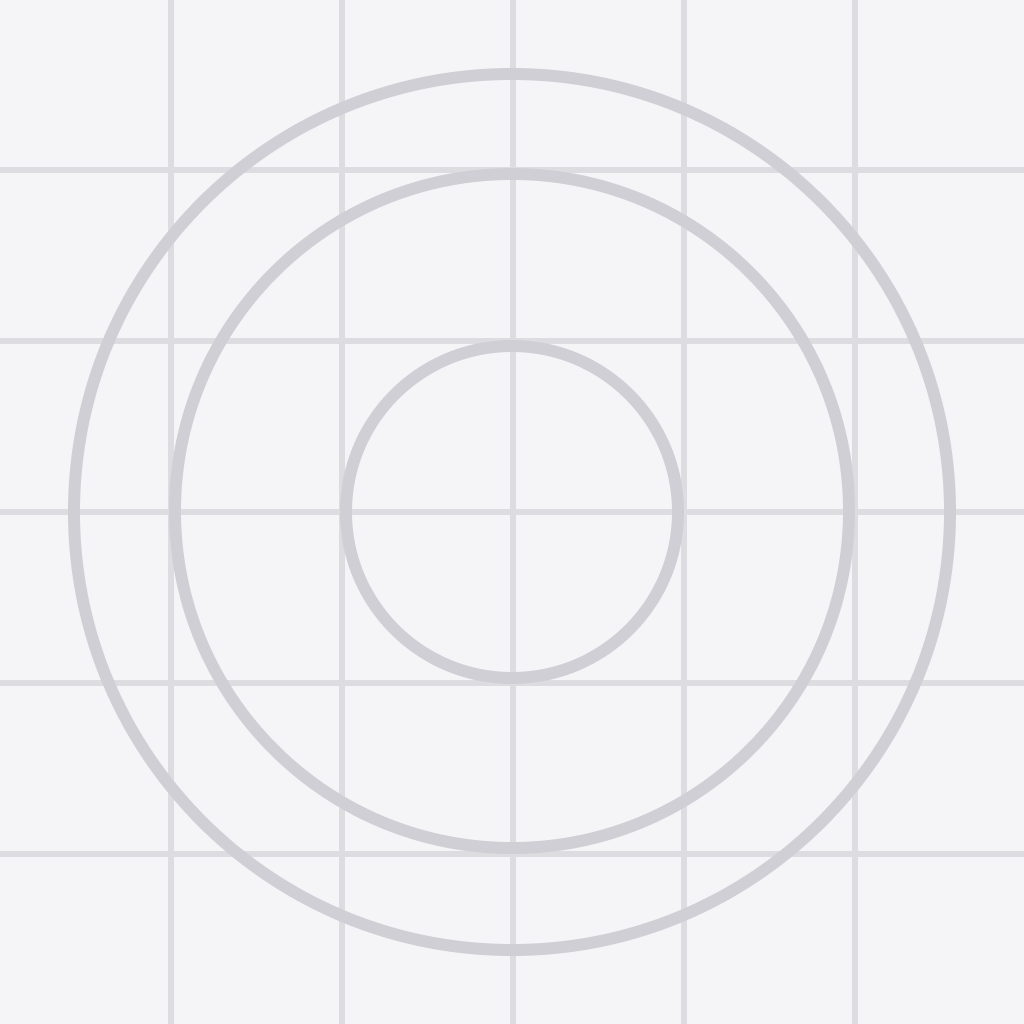
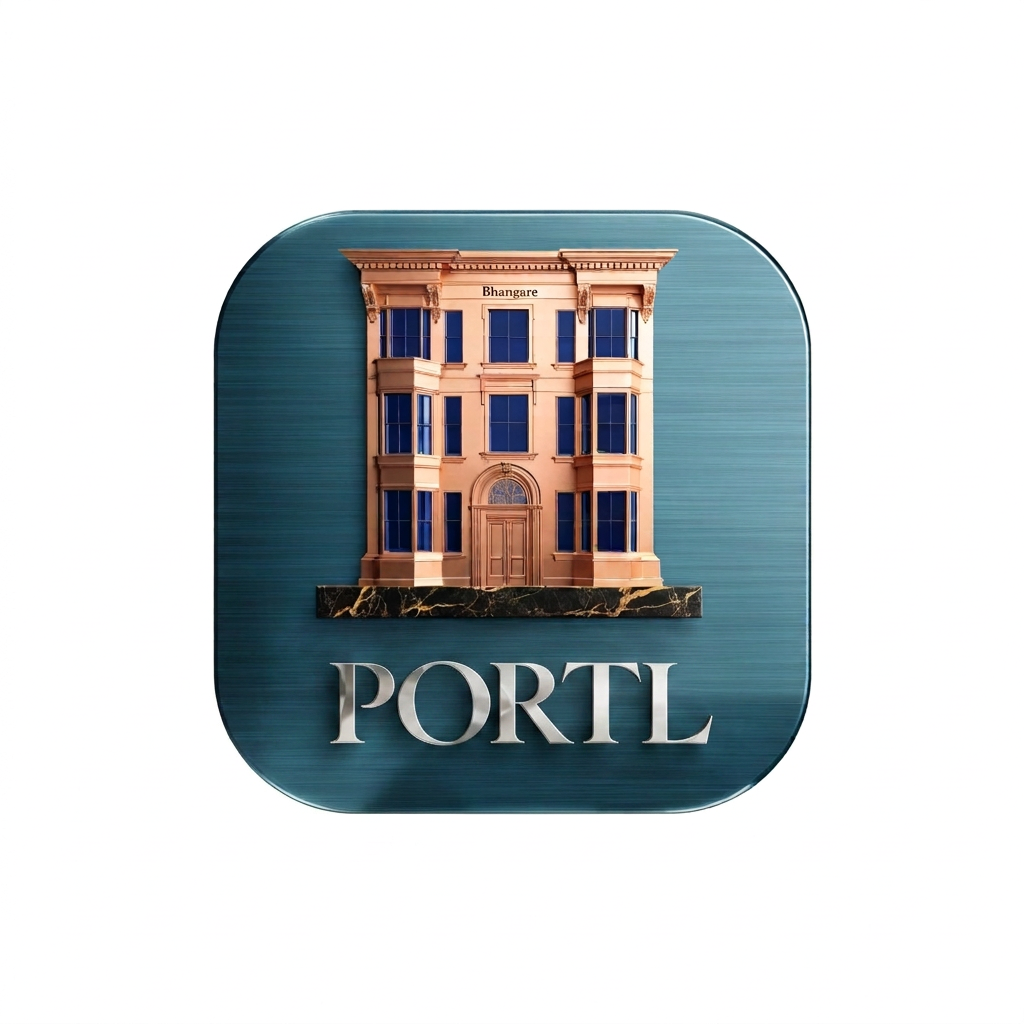
Improve card visual depth globally, add numeric nav badges

diff --git a/app/(admin)/index.tsx b/app/(admin)/index.tsx
@@ -16,7 +16,7 @@ const INK_FAINT = '#A6A3B3';
 const ACCENT = '#4F3FE0';
 const ACCENT_SOFT = '#EFECFD';
 const GOLD = '#C9922B';
-const PAGE_BG = '#FAFAFC';
+const PAGE_BG = '#EFEEF5';
 const CARD_BG = '#FFFFFF';
 const BORDER = '#ECEAF2';
 const INPUT_BG = '#F5F4F9';
@@ -1035,7 +1035,9 @@ const deleteDue = async (id: string) => {
         <Pressable style={styles.navItem} onPress={() => setTab('visitors')} hitSlop={8}>
           <View style={[styles.navIconWrap, tab === 'visitors' && styles.navIconWrapActive]}>
             <IconButton icon="account-group-outline" size={22} iconColor={tab === 'visitors' ? ACCENT : INK_FAINT} style={{ margin: 0 }} />
-            {pendingCount > 0 && tab !== 'visitors' && <View style={styles.navDot} />}
+            {pendingCount > 0 && tab !== 'visitors' && (
+  <View style={styles.navBadge}><Text style={styles.navBadgeText}>{pendingCount > 9 ? '9+' : pendingCount}</Text></View>
+)}
           </View>
           <Text style={[styles.navLabel, tab === 'visitors' && styles.navLabelActive]}>Visitors</Text>
         </Pressable>
@@ -1043,7 +1045,9 @@ const deleteDue = async (id: string) => {
         <Pressable style={styles.navItem} onPress={() => setTab('tickets')} hitSlop={8}>
           <View style={[styles.navIconWrap, tab === 'tickets' && styles.navIconWrapActive]}>
             <IconButton icon="headset" size={22} iconColor={tab === 'tickets' ? ACCENT : INK_FAINT} style={{ margin: 0 }} />
-            {openTicketsCount > 0 && tab !== 'tickets' && <View style={styles.navDot} />}
+           {openTicketsCount > 0 && tab !== 'tickets' && (
+  <View style={styles.navBadge}><Text style={styles.navBadgeText}>{openTicketsCount > 9 ? '9+' : openTicketsCount}</Text></View>
+)}
           </View>
           <Text style={[styles.navLabel, tab === 'tickets' && styles.navLabelActive]}>Tickets</Text>
         </Pressable>
@@ -1051,7 +1055,9 @@ const deleteDue = async (id: string) => {
         <Pressable style={styles.navItem} onPress={() => setMoreOpen(true)} hitSlop={8}>
           <View style={[styles.navIconWrap, isMoreActiveTab && styles.navIconWrapActive]}>
             <IconButton icon="dots-grid" size={22} iconColor={isMoreActiveTab ? ACCENT : INK_FAINT} style={{ margin: 0 }} />
-            {pendingResidents.length > 0 && !isMoreActiveTab && <View style={styles.navDot} />}
+           {pendingResidents.length > 0 && !isMoreActiveTab && (
+  <View style={styles.navBadge}><Text style={styles.navBadgeText}>{pendingResidents.length > 9 ? '9+' : pendingResidents.length}</Text></View>
+)}
           </View>
           <Text style={[styles.navLabel, isMoreActiveTab && styles.navLabelActive]}>More</Text>
         </Pressable>
@@ -1169,7 +1175,11 @@ const styles = StyleSheet.create({
 
   // ---- Home dashboard ----
   statsRow: { flexDirection: 'row', gap: 10, marginBottom: 22 },
-  statCard: { flex: 1, borderRadius: 16, backgroundColor: CARD_BG, borderWidth: 1, borderColor: BORDER, alignItems: 'center', paddingVertical: 14 },
+
+  statCard: {
+  flex: 1, borderRadius: 16, backgroundColor: CARD_BG, borderWidth: 1, borderColor: BORDER, alignItems: 'center', paddingVertical: 14,
+  shadowColor: '#151329', shadowOffset: { width: 0, height: 3 }, shadowOpacity: 0.04, shadowRadius: 8, elevation: 1,
+},
   statNum: { fontSize: 20, fontWeight: '800', color: INK },
   statLabel: { fontSize: 11, color: INK_MUTED, marginTop: 4, textAlign: 'center', fontWeight: '600' },
   homeSectionLabel: { fontSize: 13, fontWeight: '700', color: INK_MUTED, marginBottom: 10, letterSpacing: 0.3, textTransform: 'uppercase' },
@@ -1198,7 +1208,11 @@ const styles = StyleSheet.create({
   chipSelected: { backgroundColor: ACCENT_SOFT, borderColor: ACCENT },
   chipText: { color: INK_MUTED },
   chipTextSelected: { color: INK, fontWeight: '600' },
-  card: { borderRadius: 18, backgroundColor: CARD_BG, borderWidth: 1, borderColor: BORDER, overflow: 'hidden' },
+
+  card: {
+  borderRadius: 18, backgroundColor: CARD_BG, borderWidth: 1, borderColor: BORDER, overflow: 'hidden',
+  shadowColor: '#151329', shadowOffset: { width: 0, height: 4 }, shadowOpacity: 0.05, shadowRadius: 10, elevation: 2,
+},
   cardActions: { flexDirection: 'row', justifyContent: 'flex-end', padding: 12, gap: 4 },
   pendingCard: { borderWidth: 1.5, borderColor: WARN, marginBottom: 12 },
   row: { flexDirection: 'row', justifyContent: 'space-between', alignItems: 'center', gap: 8 },
@@ -1251,6 +1265,8 @@ const styles = StyleSheet.create({
   navIconWrap: { width: 44, height: 32, borderRadius: 16, justifyContent: 'center', alignItems: 'center' },
   navIconWrapActive: { backgroundColor: ACCENT_SOFT },
   navDot: { position: 'absolute', top: 2, right: 8, width: 8, height: 8, borderRadius: 4, backgroundColor: DANGER, borderWidth: 1.5, borderColor: CARD_BG },
+  navBadge: { position: 'absolute', top: -2, right: 4, minWidth: 16, height: 16, borderRadius: 8, backgroundColor: DANGER, justifyContent: 'center', alignItems: 'center', paddingHorizontal: 3, borderWidth: 1.5, borderColor: CARD_BG },
+  navBadgeText: { color: '#fff', fontSize: 9, fontWeight: '700' },
   navLabel: { fontSize: 11, color: INK_FAINT, fontWeight: '600', marginTop: 2 },
   navLabelActive: { color: ACCENT },
   navAvatar: { width: 26, height: 26, borderRadius: 13, backgroundColor: ACCENT, justifyContent: 'center', alignItems: 'center' },